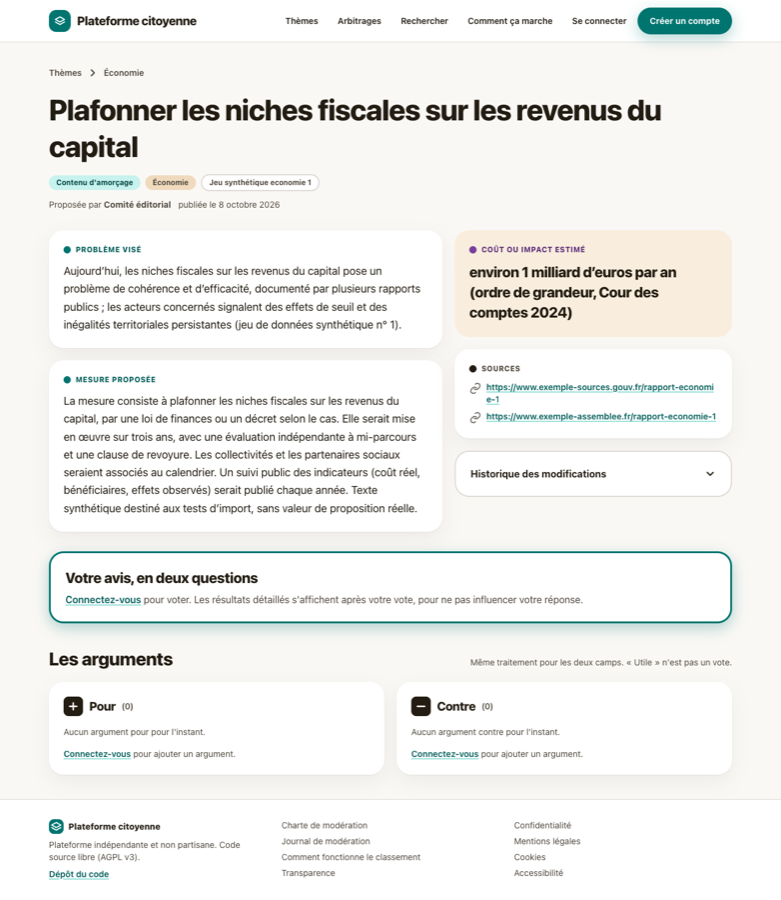
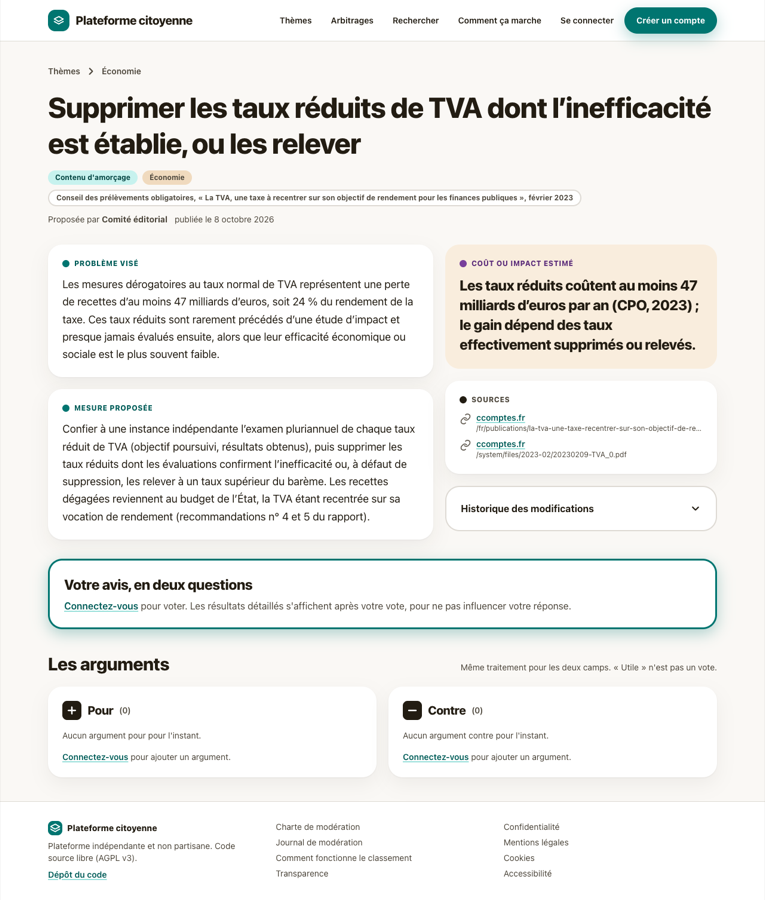
Jeu de démonstration réaliste : quarante mesures tirées de rapports publics
Remplace le jeu synthétique du seeder de développement par quarante mesures réelles (huit par thème)
reprises de recommandations de la Cour des comptes, du CPO, du CAE, de France Stratégie et du Sénat,
avec leur chiffrage et des liens vérifiés. Arbitrage de démonstration rebâti sur ces mesures avec des
hypothèses de calcul explicites. Sources affichées par nom de site. Jeu synthétique conservé pour les tests.

diff --git a/app/database/seeders/DemoTradeoffSeeder.php b/app/database/seeders/DemoTradeoffSeeder.php
@@ -9,44 +9,65 @@ use App\Models\Tradeoff;
 use App\Services\TradeoffService;
 use Illuminate\Database\Seeder;
 
-/** Développement uniquement : un arbitrage de démonstration sur le thème Économie. */
+/**
+ * Développement uniquement : un arbitrage de démonstration sur le thème Économie, bâti sur les
+ * mesures du jeu d'amorçage de démonstration. Les impacts sont des ordres de grandeur tirés des
+ * rapports cités ; l'hypothèse de calcul est écrite dans le champ « incertitude ».
+ */
 class DemoTradeoffSeeder extends Seeder
 {
+    private const CC = 'https://www.ccomptes.fr';
+
+    /** @var list<array{title: string, impact: float|int, uncertainty: string, source_url: string}> */
+    private const ITEMS = [
+        ['title' => 'Supprimer les taux réduits de TVA dont l’inefficacité est établie, ou les relever', 'impact' => 12, 'uncertainty' => 'Très élevée : hypothèse d’un quart des 47 Md€ de taux réduits supprimés ou relevés (CPO, 2023)', 'source_url' => self::CC.'/fr/publications/la-tva-une-taxe-recentrer-sur-son-objectif-de-rendement-pour-les-finances-publiques'],
+        ['title' => 'Réformer les niches des droits de succession : assurance-vie, démembrement, pacte Dutreil', 'impact' => 3, 'uncertainty' => 'Élevée : coût du seul pacte Dutreil estimé entre 2 et 3 Md€ par an (CAE, 2021), assurance-vie non chiffrée', 'source_url' => 'https://cae-eco.fr/repenser-lheritage'],
+        ['title' => 'Recalibrer les allègements généraux de cotisations patronales pour redresser les comptes sociaux', 'impact' => 4, 'uncertainty' => 'Élevée : hypothèse d’un recalibrage de 5 % des 77,3 Md€ d’allègements (Cour des comptes, 2025)', 'source_url' => self::CC.'/fr/publications/securite-sociale-2025'],
+        ['title' => 'Adopter un programme pluriannuel de maîtrise des dépenses d’assurance maladie fondé sur la prévention', 'impact' => 4, 'uncertainty' => 'Moyenne : 4 Md€ par an d’économies jugées nécessaires d’ici 2029 (Cour des comptes, avril 2025)', 'source_url' => self::CC.'/sites/default/files/2025-04/20250414-Lobjectif-national-de-depenses-dassurance-maladie-Ondam.pdf'],
+        ['title' => 'Recentrer l’aide à l’embauche d’apprentis sur les jeunes les moins qualifiés', 'impact' => 2, 'uncertainty' => 'Élevée : hypothèse d’une réduction de moitié des 4,4 Md€ d’aides versées en 2022 (Cour des comptes, 2023)', 'source_url' => self::CC.'/fr/documents/65357'],
+        ['title' => 'Instaurer une participation du titulaire aux formations financées par le compte personnel de formation', 'impact' => 0.25, 'uncertainty' => 'Moyenne : 10 % des 2,5 Md€ de dépenses annuelles du CPF (Cour des comptes, 2023)', 'source_url' => self::CC.'/fr/documents/65357'],
+        ['title' => 'Relever le barème de la taxe sur les boissons sucrées et l’étendre aux sirops et boissons végétales', 'impact' => 0.5, 'uncertainty' => 'Élevée : hypothèse d’un doublement du rendement actuel de 0,5 Md€ (CPO, 2023)', 'source_url' => self::CC.'/fr/publications/la-fiscalite-nutritionnelle'],
+        ['title' => 'Aligner les niveaux de prise en charge des contrats d’apprentissage sur leurs coûts réels', 'impact' => 0.6, 'uncertainty' => 'Moyenne : 210 M€ par tranche de 5 % de baisse, hypothèse de trois tranches (Cour des comptes, 2023)', 'source_url' => self::CC.'/fr/documents/65357'],
+    ];
+
     public function run(TradeoffService $service): void
     {
         $theme = Theme::query()->where('slug', 'economie')->first();
 
-        if ($theme === null || Tradeoff::query()->where('slug', 'trouver-40-milliards')->exists()) {
+        if ($theme === null || Tradeoff::query()->where('slug', 'trouver-20-milliards')->exists()) {
             return;
         }
 
         $tradeoff = Tradeoff::create([
-            'title' => 'Trouver 40 milliards d’économies ou de recettes',
-            'slug' => 'trouver-40-milliards',
-            'objective' => 'Ramener le déficit public sous 3 % du PIB en trouvant 40 milliards d’euros par an d’économies ou de recettes nouvelles (jeu de démonstration, chiffrages fictifs).',
-            'constraint_value' => 40,
+            'title' => 'Trouver 20 milliards d’euros par an d’économies ou de recettes',
+            'slug' => 'trouver-20-milliards',
+            'objective' => 'La Cour des comptes évalue à près de 105 milliards d’euros l’effort nécessaire d’ici 2029 pour ramener le déficit public sous 3 % du PIB. Composez une combinaison de mesures qui en couvre une première marche de 20 milliards d’euros par an. Les chiffrages sont des ordres de grandeur tirés des rapports cités, avec leur hypothèse de calcul.',
+            'constraint_value' => 20,
             'unit' => 'Md€',
             'direction' => 'at_least',
             'status' => TradeoffStatus::Draft,
-            'source_url' => 'https://www.exemple-sources.gouv.fr/trajectoire',
-            'source_label' => 'Trajectoire de finances publiques (démonstration)',
+            'source_url' => self::CC.'/fr/publications/la-situation-et-les-perspectives-des-finances-publiques-16',
+            'source_label' => 'Cour des comptes, La situation et les perspectives des finances publiques, juillet 2025',
             'theme_id' => $theme->id,
         ]);
 
-        $proposals = Proposal::query()->published()->where('theme_id', $theme->id)->orderBy('id')->limit(8)->get();
-        $impacts = [12, 8, 15, 6, 10, 20, 4, 9];
+        foreach (self::ITEMS as $item) {
+            $proposal = Proposal::query()->published()->where('title', $item['title'])->first();
 
-        foreach ($proposals as $i => $proposal) {
+            if ($proposal === null) {
+                $this->command->warn("Mesure absente du jeu de démonstration : {$item['title']}");
+
+                continue;
+            }
+
             $service->addItem($tradeoff, [
                 'proposal_id' => $proposal->id,
-                'impact' => $impacts[$i] ?? 5,
-                'uncertainty' => '± 30 %, ordre de grandeur',
-                'source_url' => 'https://www.exemple-sources.gouv.fr/chiffrage-'.$proposal->id,
+                'impact' => $item['impact'],
+                'uncertainty' => $item['uncertainty'],
+                'source_url' => $item['source_url'],
             ]);
         }
 
-        if ($proposals->count() >= 2) {
-            $service->changeStatus($tradeoff, TradeoffStatus::Open);
-        }
+        $service->changeStatus($tradeoff, TradeoffStatus::Open);
     }
 }

diff --git a/app/resources/views/proposals/show.blade.php b/app/resources/views/proposals/show.blade.php
@@ -46,7 +46,7 @@
         </header>
 
         <div class="mt-8 grid gap-5 lg:grid-cols-12">
-            <div class="flex flex-col gap-5 lg:col-span-7">
+            <div class="flex min-w-0 flex-col gap-5 lg:col-span-7">
                 <x-card as="section" aria-labelledby="probleme" class="rise">
                     <h2 id="probleme" class="eyebrow flex items-center gap-2 text-accent-700"><span class="size-3 rounded-full bg-accent-600" aria-hidden="true"></span>Problème visé</h2>
                     <p class="mt-3 text-lg leading-relaxed whitespace-pre-line">{{ $proposal->problem }}</p>
@@ -56,7 +56,7 @@
                     <p class="mt-3 text-lg leading-relaxed whitespace-pre-line">{{ $proposal->measure }}</p>
                 </x-card>
             </div>
-            <aside class="flex flex-col gap-5 lg:col-span-5">
+            <aside class="flex min-w-0 flex-col gap-5 lg:col-span-5">
                 <x-card tone="sand" as="section" aria-labelledby="cout" class="rise rise-2">
                     <h2 id="cout" class="eyebrow flex items-center gap-2 text-plum-700"><span class="size-3 rounded-full bg-plum-600" aria-hidden="true"></span>Coût ou impact estimé</h2>
                     <p class="mt-3 text-2xl leading-snug font-extrabold tracking-tight">{{ $proposal->cost_unknown ? 'Inconnu' : $proposal->cost_estimate }}</p>
@@ -70,7 +70,13 @@
                                 @if ($source->is_personal)
                                     <span>Proposition personnelle</span>
                                 @else
-                                    <a href="{{ $source->url }}" rel="noopener nofollow" class="link break-all">{{ $source->label ?? $source->url }}</a>
+                                    @php $host = preg_replace('/^www\./', '', (string) parse_url((string) $source->url, PHP_URL_HOST)); @endphp
+                                    <span class="block min-w-0 flex-1">
+                                        <a href="{{ $source->url }}" rel="noopener nofollow" class="link">{{ $source->label ?? $host }}</a>
+                                        @if ($source->label === null)
+                                            <span class="block truncate text-xs text-ink-700" title="{{ $source->url }}">{{ Str::limit((string) parse_url((string) $source->url, PHP_URL_PATH), 70) }}</span>
+                                        @endif
+                                    </span>
                                 @endif
                             </li>
                         @endforeach

diff --git a/app/resources/views/account/journey.blade.php b/app/resources/views/account/journey.blade.php
@@ -5,7 +5,7 @@
             $ratio = $max > 0 ? min(1, $value / $max) : 0;
             $offset = (int) round($circumference * (1 - $ratio));
             return sprintf(
-                '<div class="relative size-24"><svg viewBox="0 0 80 80" class="size-24" role="img" aria-label="%s"><circle cx="40" cy="40" r="32" fill="none" stroke-width="10" class="stroke-ink-100"/><circle cx="40" cy="40" r="32" fill="none" stroke-width="10" stroke-linecap="round" stroke-dasharray="%d" stroke-dashoffset="%d" transform="rotate(-90 40 40)" class="%s transition-[stroke-dashoffset] duration-700"/></svg><span class="absolute inset-0 flex items-center justify-center text-2xl font-extrabold text-ink-900" aria-hidden="true">%d</span></div>',
+                '<svg viewBox="0 0 80 80" class="size-20" role="img" aria-label="%s"><circle cx="40" cy="40" r="32" fill="none" stroke-width="10" class="stroke-ink-100"/><circle cx="40" cy="40" r="32" fill="none" stroke-width="10" stroke-linecap="round" stroke-dasharray="%d" stroke-dashoffset="%d" transform="rotate(-90 40 40)" class="%s transition-[stroke-dashoffset] duration-700"/></svg><p class="mt-2 text-3xl leading-none font-extrabold tracking-tight text-ink-900" aria-hidden="true">%d</p>',
                 e($label), $circumference, $offset, $stroke, $value,
             );
         };

diff --git a/app/database/seeders/DemoProposalSeeder.php b/app/database/seeders/DemoProposalSeeder.php
@@ -5,12 +5,15 @@ namespace Database\Seeders;
 use App\Services\ProposalImporter;
 use Illuminate\Database\Seeder;
 
-/** Développement uniquement : importe le jeu d'amorçage synthétique de test. */
+/**
+ * Développement uniquement : importe le jeu d'amorçage de démonstration (mesures réelles tirées de
+ * rapports publics, voir docs/import-amorcage.md). Le jeu synthétique de tests reste dans tests/Fixtures.
+ */
 class DemoProposalSeeder extends Seeder
 {
     public function run(ProposalImporter $importer): void
     {
-        $report = $importer->import(base_path('tests/Fixtures/amorcage-200.csv'));
+        $report = $importer->import(database_path('data/amorcage-demo.csv'));
 
         if ($report->hasErrors()) {
             $this->command->error('Import du jeu de démonstration en échec : '.json_encode($report->errors, JSON_UNESCAPED_UNICODE));

diff --git a/docs/plans/lot-6-experience.md b/docs/plans/lot-6-experience.md
@@ -162,3 +162,7 @@ Livré en trois phases sur la branche `lot-6-experience` :
 Suite complète : 235 tests, 1 361 assertions, PHPStan niveau 8, Pint.
 
 Point d'attention découvert : un serveur Vite d'un autre projet écoutait sur le port 5173 de l'hôte et masquait celui du conteneur ; le fichier `public/hot` a été retiré pour que le site de développement serve les ressources compilées. Le conteneur `node` ne sait pas exécuter `vite build` (binaire natif absent pour `linux-arm64-musl`) : la compilation se fait sur l'hôte (`npm run build`), comme pour le lot 5.
+
+## 9. Complément du 8 octobre 2026 : jeu de démonstration réaliste
+
+À la demande d'Arnaud (« toutes les sources ont des liens fake, ça fait pas sérieux »), le jeu synthétique de 200 fiches n'est plus chargé par le seeder de développement. Il est remplacé par `app/database/data/amorcage-demo.csv` : quarante mesures réelles, huit par thème, reprises de recommandations de rapports publics (Cour des comptes, Conseil des prélèvements obligatoires, Conseil d'analyse économique, France Stratégie, Sénat), avec le chiffrage tel qu'il figure dans le rapport ou « inconnu », et deux liens par fiche vérifiés (réponse HTTP 200 le 8 octobre 2026, textes extraits des PDF pour contrôler les chiffres). L'arbitrage de démonstration « Trouver 20 milliards d'euros par an » s'appuie sur huit de ces mesures ; chaque impact est un ordre de grandeur dont l'hypothèse de calcul est écrite dans le champ « incertitude ». Sur les fiches, une source sans libellé affiche désormais le nom du site et le chemin tronqué plutôt que l'URL brute. Le jeu synthétique reste dans `tests/Fixtures` pour les tests d'import. Ce contenu est une base de travail pour le comité éditorial, pas une position de la plateforme.

diff --git a/docs/import-amorcage.md b/docs/import-amorcage.md
@@ -37,4 +37,7 @@ theme_slug;title;problem;measure;cost_estimate;cost_unknown;source_urls;seed_sou
 sante;Plafonner les dépassements d’honoraires;"Les dépassements…";"La mesure consiste à…";"1 milliard d’euros par an (Cour des comptes 2024)";0;https://www.ccomptes.fr/…|https://www.assemblee-nationale.fr/…;Rapport de la Cour des comptes 2024
 ```
 
-Un jeu synthétique de 200 lignes, utilisé par les tests et le seeder de développement, se trouve dans `app/tests/Fixtures/amorcage-200.csv`. Il ne contient aucune proposition réelle.
+## Jeux de données fournis
+
+- `app/database/data/amorcage-demo.csv` : **jeu de démonstration** chargé par le seeder de développement (`php artisan db:seed`). Quarante mesures réelles, huit par thème, reprises de recommandations formulées dans des rapports publics (Cour des comptes, Conseil des prélèvements obligatoires, Conseil d'analyse économique, France Stratégie, Sénat), avec leur chiffrage tel qu'il figure dans le rapport et les liens exacts vers les documents, vérifiés le 8 octobre 2026. Chaque fiche porte l'origine « contenu d'amorçage » et cite le rapport. Ce jeu sert à la démonstration et peut servir de base de travail au comité éditorial ; il n'engage pas la plateforme sur le fond des mesures.
+- `app/tests/Fixtures/amorcage-200.csv` : jeu **synthétique** de 200 lignes utilisé par les tests automatisés d'import. Textes passe-partout et domaines fictifs : ne jamais le charger ailleurs que dans les tests.
